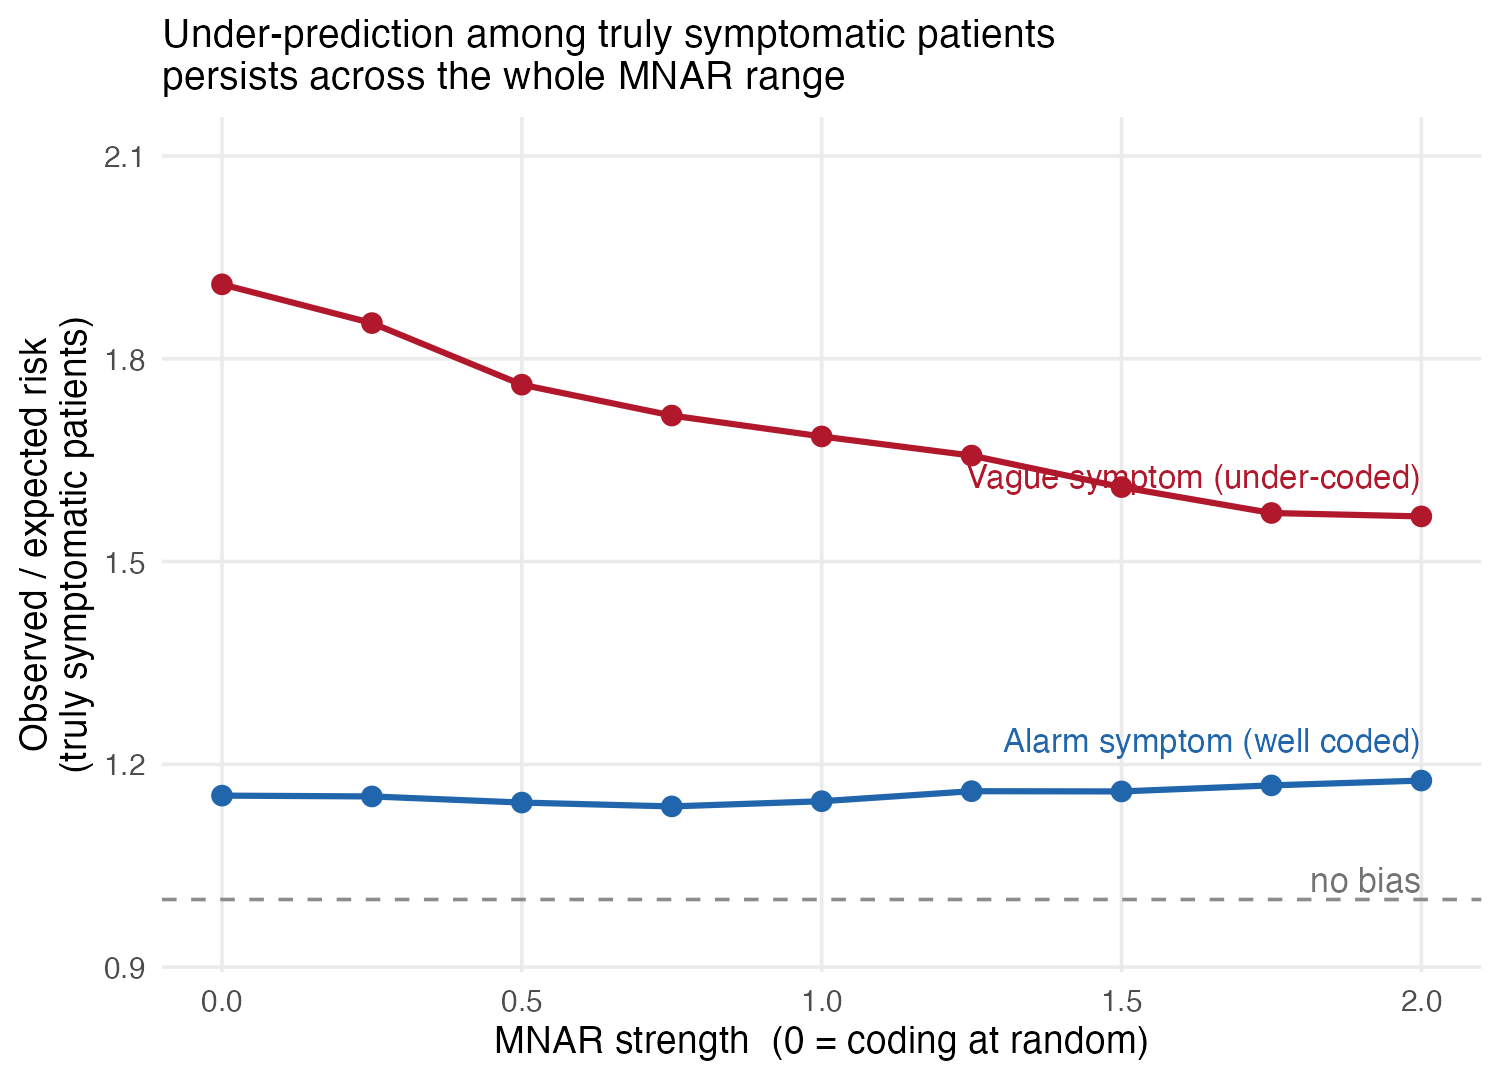
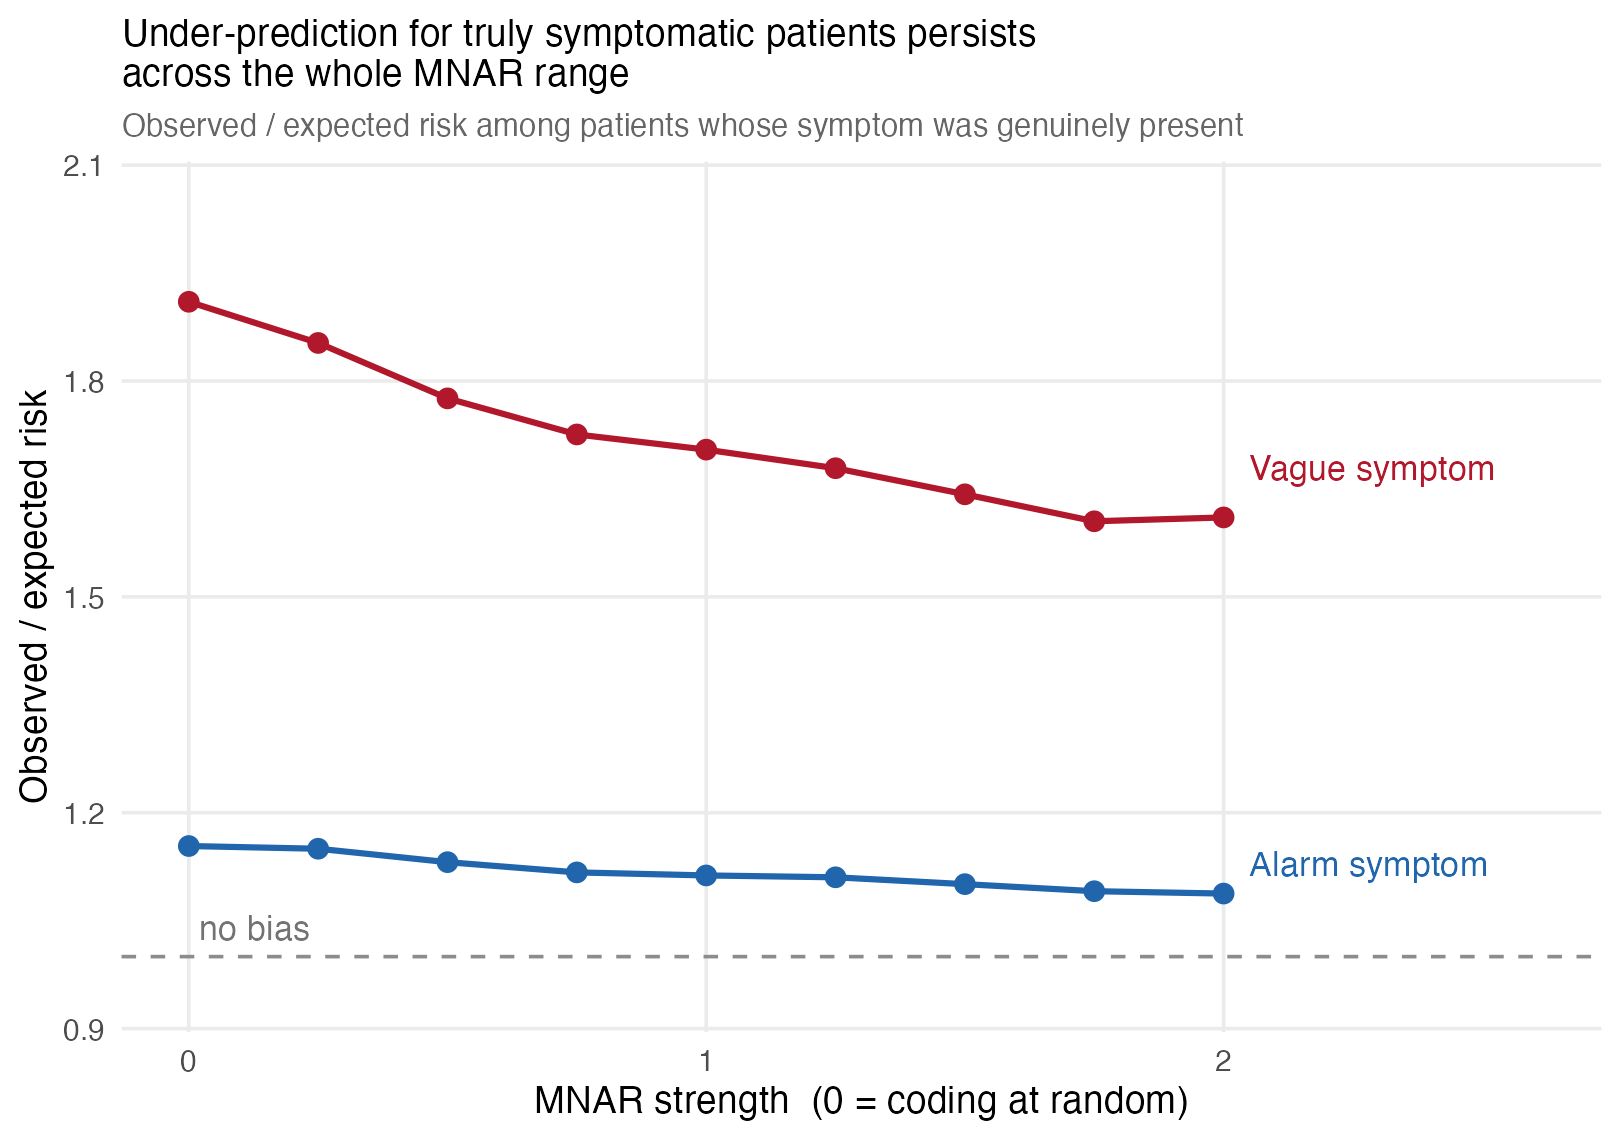
Hold marginal coding rate fixed across the MNAR sweep
Setting the coding intercept to qlogis(base_coding_prob) only gives that
marginal rate at mnar_strength = 0: E[plogis(a + m*U)] != plogis(a) for m > 0.
The coding rate was therefore drifting along the x-axis (alarm 0.85 -> 0.75,
vague 0.45 -> 0.47), confounding coding frequency with coding informativeness --
the two mechanisms this simulation exists to separate. solve_coding_intercept()
now solves for the intercept by Gauss-Hermite-style quadrature at each grid
point, and two new tests pin the rate to target across the sweep.

Conclusions are unchanged in direction and nearly unchanged in magnitude
(vague-regime sweep 2.51 -> 2.46 OR units), so the drift was real but was not
driving the result.

Also strengthened two invariant tests that were underpowered: with a ~0.8%
outcome rate, n = 50k gives ~350 cases, and the severity-gap check was compared
against a fixed tolerance smaller than its own standard error. Both now run at
n = 400k and the severity check is a t-statistic.

diff --git a/README.md b/README.md
@@ -25,6 +25,12 @@ one fitted on `S` is produced entirely by the recording process. Two coding
 regimes are contrasted: an alarm symptom coded 85% of the time when present
 (rectal bleeding), and a vague symptom coded 45% of the time (fatigue).
 
+The coding intercept is solved numerically at each grid point so that the
+*marginal* coding rate stays fixed as `mnar_strength` rises. This matters: since
+`plogis(a + m*U)` does not average to `plogis(a)` once `m > 0`, setting the
+intercept naively would let coding frequency drift along the x-axis, confounding
+the two mechanisms the simulation exists to separate.
+
 ## Reproducing
 
 Base R only, no packages required for the simulation (`ggplot2` for the plots).
@@ -38,8 +44,9 @@ vague <- run_sweep(base_coding_prob = 0.45, nsim = 200)
 `run_sweep()` returns Monte Carlo standard errors alongside every estimate, so
 you can see whether `nsim` is adequate rather than taking it on trust.
 `figures/sweep_results.csv` is the output of the exact call above with
-`seed = 20260726`. `tests/test_simulation.R` checks the invariants that make the
-result interpretable.
+`seed = 20260726`. `tests/test_simulation.R` checks the thirteen invariants that make the
+result interpretable, including that coding frequency stays fixed along the
+sweep.
 
 ## Results
 
@@ -58,8 +65,8 @@ missingness required.
 
 The two mechanisms turn out to be comparable in size rather than one dominating.
 The gap between regimes at `mnar_strength = 0` is 1.92 OR units; sweeping
-`mnar_strength` from 0 to 2 moves the vague regime by 2.51 units and the alarm
-regime by 1.06. So coding frequency sets where the estimate starts, and
+`mnar_strength` from 0 to 2 moves the vague regime by 2.46 units and the alarm
+regime by 1.21. So coding frequency sets where the estimate starts, and
 informativeness determines how far it then travels — travelling furthest exactly
 where coding is sparsest.
 
@@ -74,15 +81,15 @@ zero in the structured field.
 **2. Increasing MNAR strength moves the odds ratio back *toward* the declared
 truth.** As coding concentrates among patients whose severity is high, being
 coded becomes a sharper marker of genuine disease, so the estimated association
-strengthens — 7.42 to 9.93 in the vague regime. Informative recording does not
+strengthens — 7.42 to 9.87 in the vague regime, with coding frequency held fixed. Informative recording does not
 simply make the bias worse; it changes what the coded variable means. Recovering
 the odds ratio is not the same as recovering usable predictions, though: the
 second figure shows calibration for truly symptomatic patients stays poor
 throughout.
 
 **3. Under-prediction for truly symptomatic patients persists across the whole
-range.** Observed risk exceeds predicted risk by 57–91% in the vague regime and
-by about 15% in the alarm regime, at every MNAR level tested. The
+range.** Observed risk exceeds predicted risk by 61–91% in the vague regime and
+by 9–15% in the alarm regime, at every MNAR level tested. The
 observed/expected ratio never approaches 1. This is the quantity with clinical
 consequences, and it is worst exactly where coding is weakest.
 
